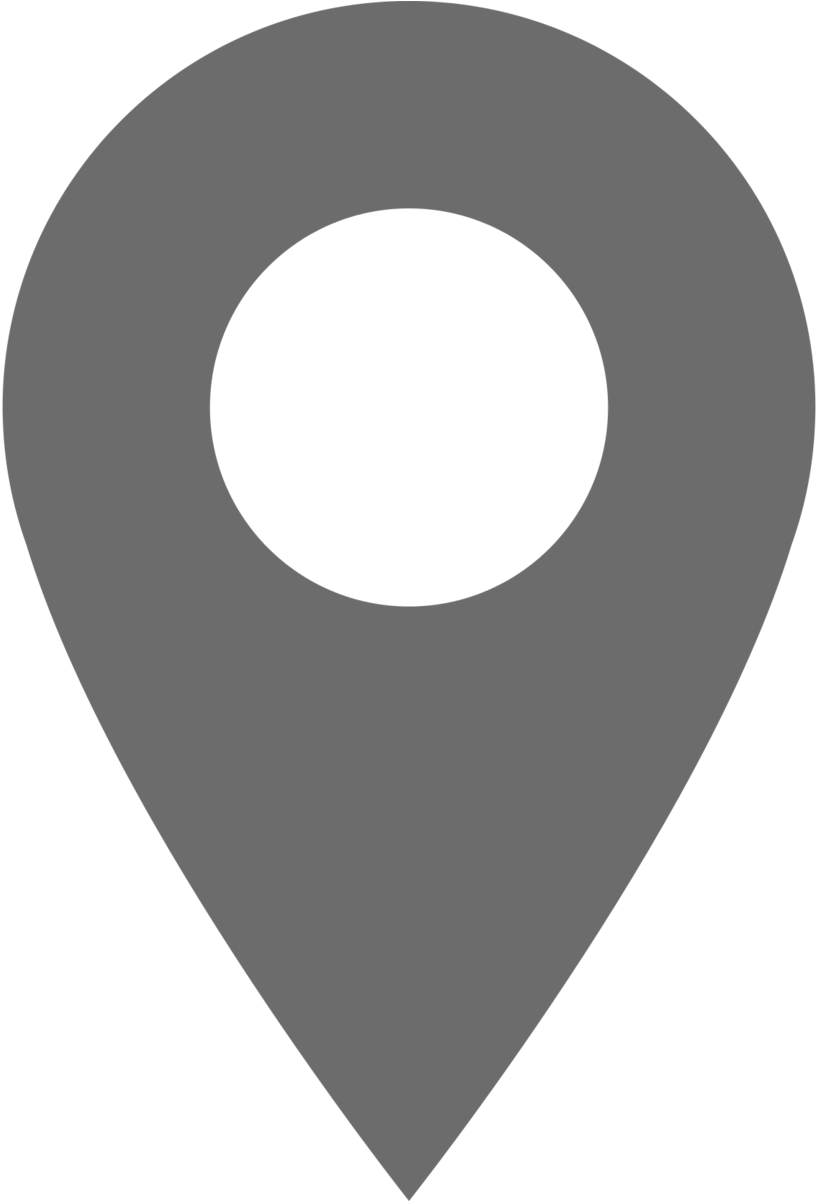
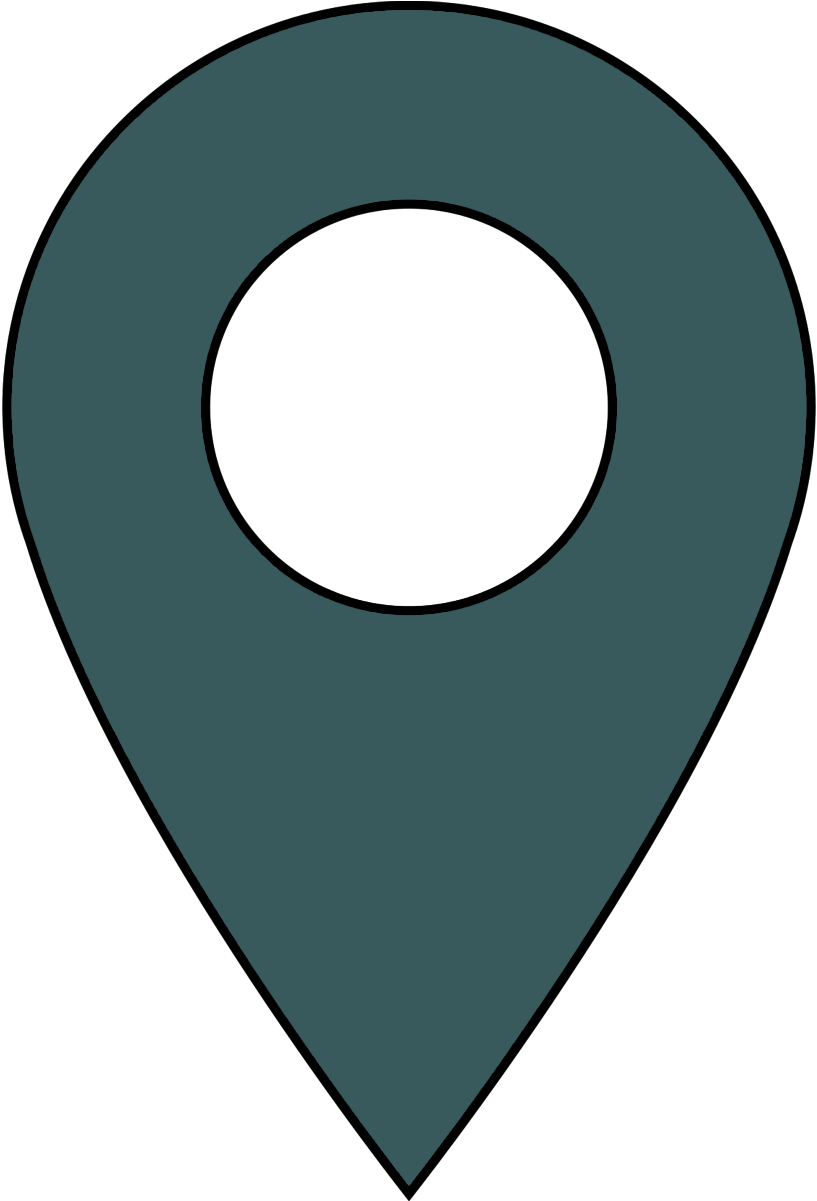
FIX: handled error on Cors Error

diff --git a/src/App.js b/src/App.js
@@ -6,17 +6,18 @@ import { BrowserRouter, Route, Routes } from "react-router-dom";
 import { ROUTES } from "./components/routes";
 import { createContext, useContext, useEffect, useState } from "react";
 import usePrevious from "./components/hooks/usePrevious";
+import { ErrorComponent } from "./ErrorComponent";
 
 export const LocationKeyContext = createContext();
 function App() {
-	const [searchQuery, setSearchQuery] = useState("zxczxczx");
+	const [searchQuery, setSearchQuery] = useState();
 	const [currentLocation, setCurrentLocation] = useState({});
 	const [isFetchingKey, setIsFetchingKey] = useState(true);
 	const apikey = "%09IlRAHY0huRuA8lDzfLPGFOWT9u6rybSX";
 	const [isRetrievingPos, setIsRetrievingPos] = useState(true);
 	const [geoposition, setGeoPosition] = useState(null);
 	const previousSearchQueryState = usePrevious(searchQuery);
-	const [searchQueryErr, setSearchQueryErr] = useState();
+	const [isError, setIsError] = useState(false);
 
 	async function getSearchQueryLocationKey() {
 		setIsFetchingKey(true);
@@ -30,8 +31,7 @@ function App() {
 			return locationKey[0];
 			// return locationKey[0];
 		} catch (error) {
-			console.log("error");
-			throw error;
+			console.log("cors error");
 		}
 	}
 
@@ -74,24 +74,25 @@ function App() {
 			setCurrentLocation(fetchedData);
 			return fetchedData;
 		} catch (e) {
+			console.log("cors error");
 			console.error(e);
 			console.log("Unable to fetch location key");
 		}
 	}
 
-	// useEffect(() => {
-	// 	getUserGeoposition()
-	// 		.then((data) => {
-	// 			console.log("fetching");
-	// 		})
-	// 		.then(() => {
-	// 			console.log("done");
-	// 			setIsRetrievingPos(false);
-	// 		})
-	// 		.catch((err) => {
-	// 			console.log(err);
-	// 		});
-	// }, []);
+	useEffect(() => {
+		getUserGeoposition()
+			.then((data) => {
+				console.log("fetching");
+			})
+			.then(() => {
+				console.log("done");
+				setIsRetrievingPos(false);
+			})
+			.catch((err) => {
+				console.log(err);
+			});
+	}, []);
 
 	// do this after retreiving the lat and long of user or default location
 	// fetches KEY using geoposition
@@ -136,29 +137,8 @@ function App() {
 						id="main-container"
 						className="gap-x-10 flex flex-1 px-20 h-4/5"
 					>
-						{currentLocation === undefined ? (
-							<div className="text-[5rem] flex justify-center flex-col items-center flex-1">
-								<div>
-									<div className="text-[10rem]"> :'( </div>
-									<h1 className="">Location not found</h1>
-									<h2 className="text-xl font-bold">Could be:</h2>
-									<p className="text-xl">
-										•The location you've entered cannot be found,
-										please enter a different location.{" "}
-									</p>
-									<p className="text-xl">
-										•We've exceeded the amount of calls (50 a day for
-										free tier) from{" "}
-										<a
-											id="accuweather-link"
-											href="https://developer.accuweather.com/apis"
-										>
-											AccuWeather
-										</a>
-										.
-									</p>
-								</div>
-							</div>
+						{currentLocation === undefined || isError ? (
+							<ErrorComponent />
 						) : (
 							<LocationKeyContext.Provider
 								value={{
@@ -167,6 +147,8 @@ function App() {
 									setIsFetching: setIsFetchingKey,
 									setGeoPosition: setGeoPosition,
 									geoposition: geoposition,
+									isError: isError,
+									setIsError: setIsError,
 								}}
 							>
 								<Current />

diff --git a/src/components/daily-hourly-components/Forecast.js b/src/components/daily-hourly-components/Forecast.js
@@ -5,7 +5,8 @@ import { Hourly } from "./Hourly";
 import { LocationKeyContext } from "../../App";
 
 export const Forecast = () => {
-	const { locationObj, isFetching } = useContext(LocationKeyContext);
+	const { locationObj, isFetching, setIsError } =
+		useContext(LocationKeyContext);
 	const [loadingData, setLoadingData] = useState(true);
 	const forecastURL = [
 		`http://dataservice.accuweather.com/forecasts/v1/daily/5day/${locationObj.Key}?metric=true&apikey=IlRAHY0huRuA8lDzfLPGFOWT9u6rybSX `,
@@ -33,7 +34,10 @@ export const Forecast = () => {
 					setDailyForecast(data[0]);
 					setHourlyForecast(data[1]);
 				})
-				.then(() => setLoadingData(false));
+				.then(() => setLoadingData(false))
+				.catch((e) => {
+					setIsError(true);
+				});
 		}
 	}, [isFetching]);
 

diff --git a/src/ErrorComponent.js b/src/ErrorComponent.js
@@ -1,0 +1,27 @@
+import React from "react";
+
+export const ErrorComponent = () => {
+	return (
+		<div className="text-[5rem] flex justify-center flex-col items-center flex-1">
+			<div>
+				<div className="text-[10rem]"> :'( </div>
+				<h1 className="">Something Went Wrong!</h1>
+				<h2 className="text-xl font-bold">Could be:</h2>
+				<p className="text-xl">
+					•The location you've entered cannot be found, please enter a
+					different location.{" "}
+				</p>
+				<p className="text-xl">
+					•We've exceeded the amount of calls (50 a day free tier) from{" "}
+					<a
+						id="accuweather-link"
+						href="https://developer.accuweather.com/apis"
+					>
+						AccuWeather
+					</a>
+					.
+				</p>
+			</div>
+		</div>
+	);
+};

diff --git a/src/components/current-components/Current.js b/src/components/current-components/Current.js
@@ -3,7 +3,7 @@ import { LocationKeyContext } from "../../App";
 import { CurrentContents } from "./CurrentContents";
 
 export const Current = ({ children }) => {
-	const { locationObj, setIsFetching, isFetching } =
+	const { locationObj, setIsFetching, isFetching, setIsError } =
 		useContext(LocationKeyContext);
 	const [currentWeather, setCurrentWeather] = useState([]);
 
@@ -29,6 +29,7 @@ export const Current = ({ children }) => {
 					return data;
 				})
 				.catch((err) => {
+					setIsError(true);
 					console.log("Unable to fetch data");
 				});
 		}

diff --git a/src/components/navbar-components/NavBar.js b/src/components/navbar-components/NavBar.js
@@ -19,9 +19,13 @@ export const NavBar = ({ handleQuery }) => {
 
 	return (
 		<nav className="h-24 bg-[#2e2e2e] uppercase flex justify-between items-center px-10">
-			<h1 id="logo" className="font-bold whitespace-nowrap text-white ">
+			<a
+				href="#"
+				id="logo"
+				className="font-bold whitespace-nowrap text-white "
+			>
 				Weather App
-			</h1>
+			</a>
 			<form
 				className="w-[500px] mr-20 ml-20"
 				onSubmit={(e) => {

diff --git a/src/components/map-components/LocationMarker.js b/src/components/map-components/LocationMarker.js
@@ -21,8 +21,8 @@ export const LocationMarker = () => {
 		},
 	});
 	const mark = L.icon({
-		iconUrl: require("../../assets/img/marker/marker3.png"),
-		iconSize: [50, 60],
+		iconUrl: require("../../assets/img/marker/marker2.png"),
+		iconSize: [35, 50],
 	});
 
 	return position === null ? null : (

diff --git a/src/components/map-components/Map.js b/src/components/map-components/Map.js
@@ -12,7 +12,7 @@ import { LocationMarker } from "./LocationMarker";
 
 export const Map = () => {
 	return (
-		<div className="flex-1 " id="map">
+		<div className="flex-1 border-2 border-black " id="map">
 			<MapContainer
 				center={[51.505, -0.09]}
 				zoom={13}
